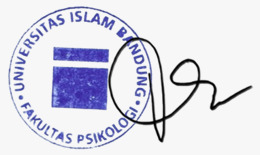
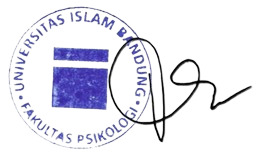
fixed ttd image

Changed region(s): [[0.0308, 0.0258, 0.9846, 0.9806], [0.1846, 0.2839, 0.2769, 0.3871]]

diff --git a/app/Services/SuratHtmlGenerator.php b/app/Services/SuratHtmlGenerator.php
@@ -25,6 +25,13 @@ class SuratHtmlGenerator
         $data = $this->prepareData($surat, $mahasiswa);
         $htmlContent = strtr($templateContent, $data);
 
+        $htmlContent = preg_replace(
+            '/<p>\s*&nbsp;\s*<\/p>/i',
+            '<p>' . $data['{ttd_cap_dekan}'] . '</p>',
+            $htmlContent,
+            1
+        );
+
         // ============================================
         // BUNGKUS DENGAN HTML LENGKAP
         // ============================================
@@ -95,6 +102,7 @@ class SuratHtmlGenerator
             // Kop Surat & TTD
             '{kop_surat}' => $this->getKopSuratBase64($surat),
             '{ttd_elektronik}' => $this->getTTDImageBase64(),
+            '{ttd_cap_dekan}' => $this->getTTDImageBase64(),
         ];
 
         // Tambahkan data dari data_tambahan
@@ -157,7 +165,14 @@ class SuratHtmlGenerator
                     $base64 = base64_encode($imageData);
                     $mimeType = mime_content_type($path);
 
-                    return '<img src="data:' . $mimeType . ';base64,' . $base64 . '" style="max-width:150px; height:auto; margin-top:5px;" alt="TTD dan Cap">';
+                    return '<img src="data:' . $mimeType . ';base64,' . $base64 . '"
+                            style="
+                                width:150px;
+                                height:auto;
+                                display:block;
+                                margin:0 auto;
+                            "
+                            alt="TTD dan Cap">';
                 } catch (\Exception $e) {
                     Log::error('Error loading TTD image: ' . $e->getMessage());
                 }
